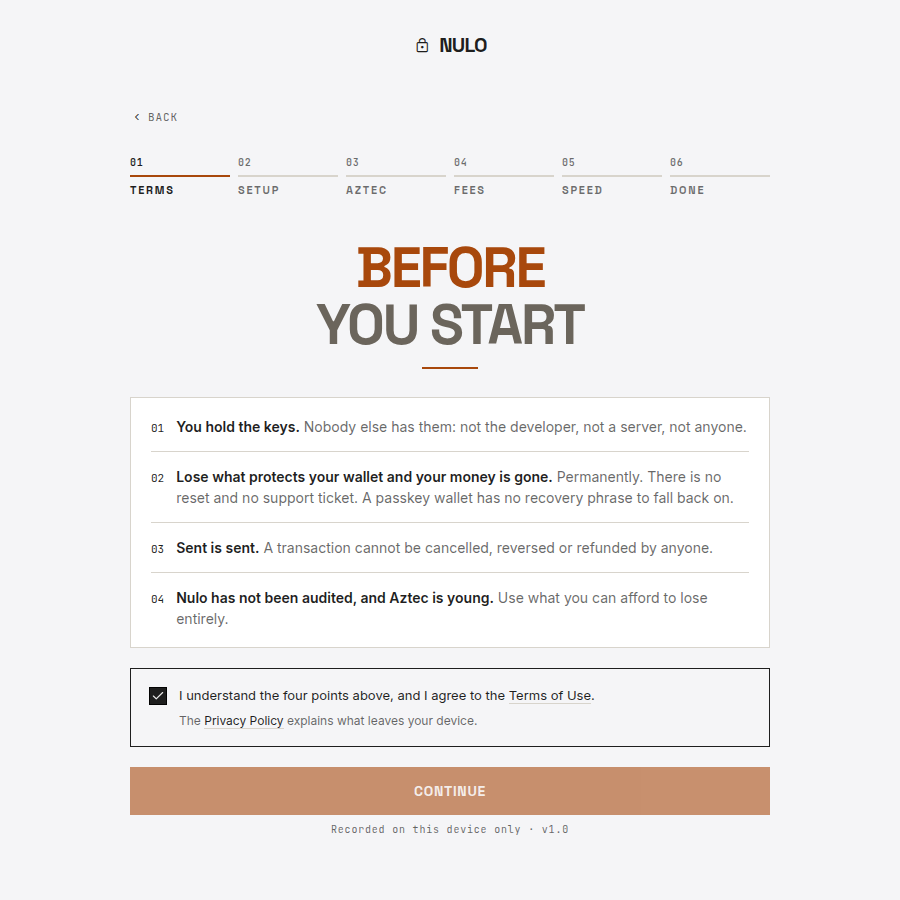
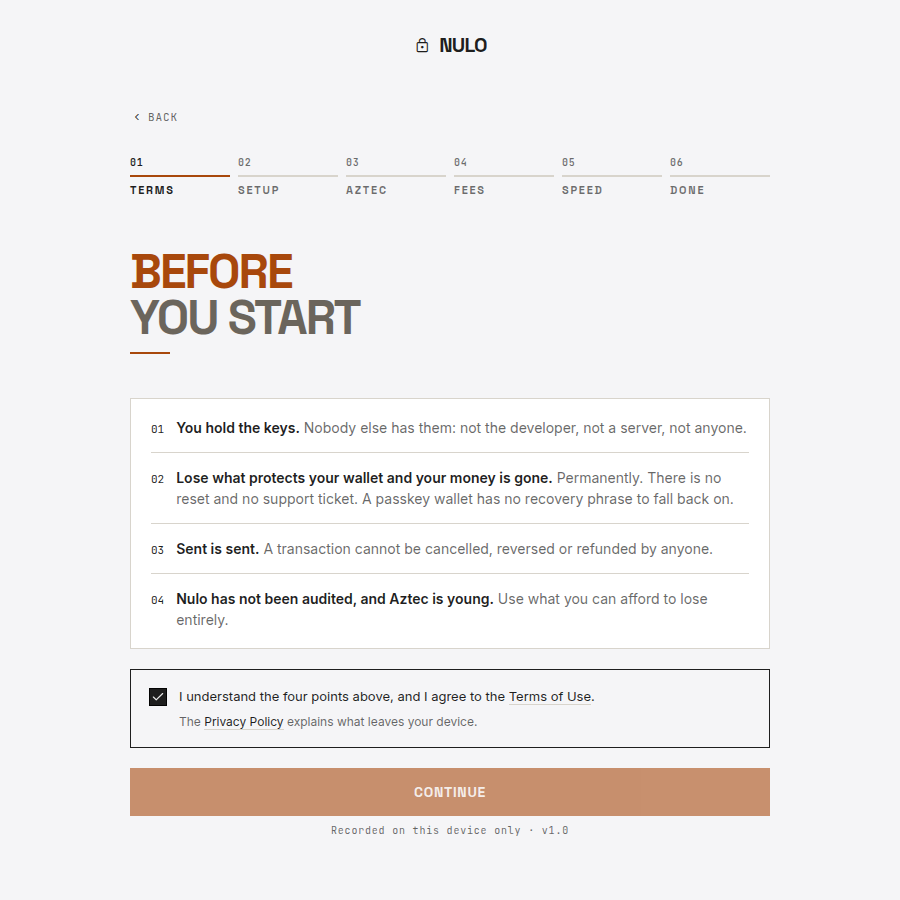
fix(onboarding): left-align the terms step header like the other steps
As step 01 of the sequence the gate takes the header every other step uses, instead of
the centred hero it had when it stood alone. Asked for by the owner; quoted in the plan.

diff --git a/apps/extension/src/onboarding/pages/terms.vue b/apps/extension/src/onboarding/pages/terms.vue
@@ -39,14 +39,14 @@ const handleAccept = async () => {
 </script>
 
 <template>
-	<OnboardingPage align="center" :gap="28">
+	<OnboardingPage :gap="28">
 		<OnboardingBackLink testid="legal-terms-back" />
 		<StepIndicator :current="1" />
 
-		<Flex direction="column" align="center" gap="16" data-testid="legal-terms-page">
-			<BrutalistTitle main="Before" sub="you start" align="center" size="hero" />
-			<div :class="$style.bar" />
-		</Flex>
+		<header :class="$style.hero" data-testid="legal-terms-page">
+			<BrutalistTitle main="Before" sub="you start" />
+			<div :class="$style.hero_bar" />
+		</header>
 
 		<LegalConsent
 			:points="RISK_POINTS"
@@ -59,9 +59,14 @@ const handleAccept = async () => {
 </template>
 
 <style module>
-.bar {
-	width: 56px;
+.hero {
+	padding: 8px 0 16px;
+}
+
+.hero_bar {
+	width: 40px;
 	height: 2px;
 	background: var(--nulo-accent);
+	margin-top: 12px;
 }
 </style>

diff --git a/implementations-plan/legal-terms/plan.md b/implementations-plan/legal-terms/plan.md
@@ -357,6 +357,11 @@ for them:
 - **The ordinals share a baseline with their lead** (`align-items: baseline`), replacing a fixed
   top padding that only approximated it.
 
+- **The step's header is left-aligned like every other step's**, asked for in a second note once
+  the indicator was in: "the "Before you start", "Terms" step title, it's centered in the middle
+  […] while all other steps are to the left. I think we should put it to the left too?" The centred
+  hero belonged to a gate that stood alone like Welcome; as step 01 it takes the shared header.
+
 ## Assumptions and open items
 
 - Every dispatcher method is refused while declined, reads included (follows from decision 3).
